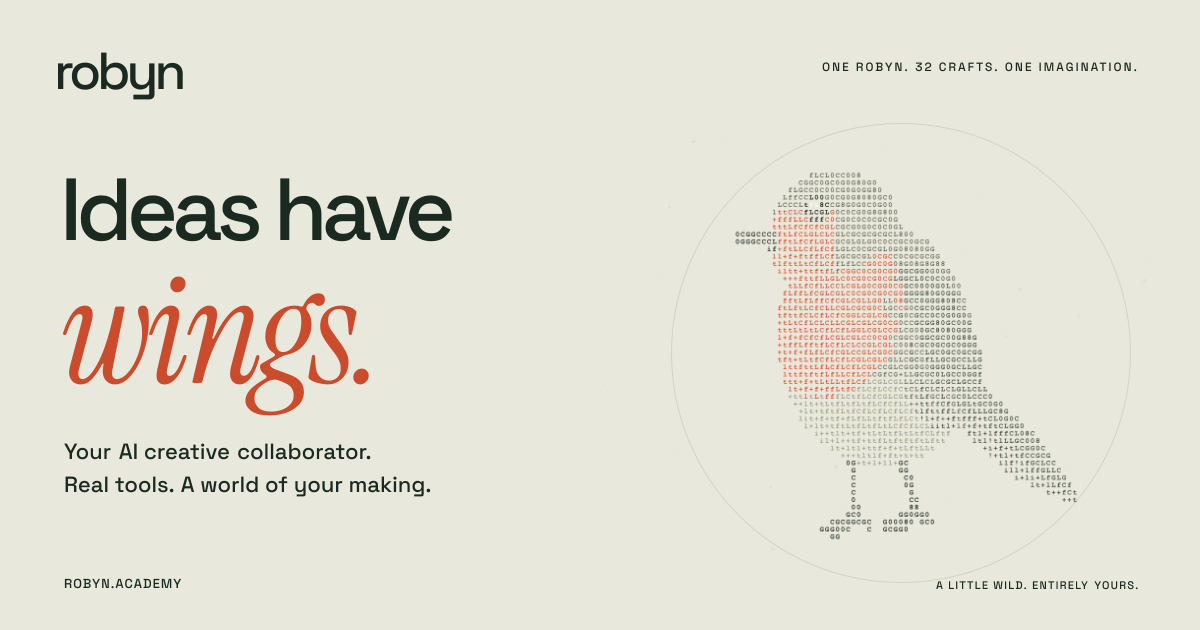
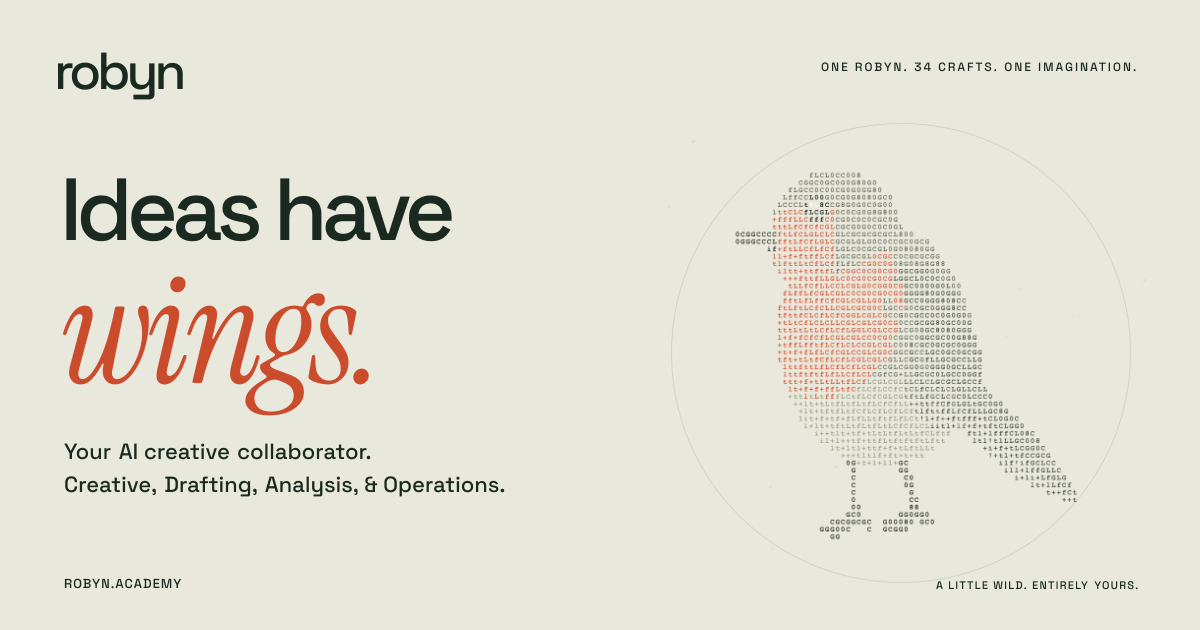
Group Operations Crafts and refresh the homepage

Changed region(s): [[0.0308, 0.754, 0.4317, 0.7841], [0.6783, 0.0905, 0.9558, 0.1206]]

diff --git a/src/components/home/FlightStory.tsx b/src/components/home/FlightStory.tsx
@@ -7,8 +7,15 @@ import { InvitationForm } from "./InvitationForm";
 import { craftTour, studioTour, registeredCraftCount, upcomingCrafts } from "./craft-tour";
 import { CraftArtwork } from "./CraftArtwork";
 import { AppIcon } from "@/components/studio/AppIcon";
+import { STUDIO_GROUPS } from "@/studio/manifest";
 
-const chapters = [{ id: "an-idea", label: "Meet Robyn" }, ...studioTour.map(app => ({ id: app.id, label: app.name })), { id: "invitation", label: "Your invitation" }];
+const introChapter = { id: "an-idea", label: "Meet Robyn", number: 0 };
+const craftChapters = studioTour.map((app, index) => ({ id: app.id, label: app.name, studio: app.studio, number: index + 1 }));
+const invitationChapter = { id: "invitation", label: "Your invitation", number: studioTour.length + 1 };
+const chapters = [introChapter, ...craftChapters, invitationChapter];
+const tourGroups = STUDIO_GROUPS.map(name => ({ name, chapters: craftChapters.filter(chapter => chapter.studio === name) }))
+  .filter(group => group.chapters.length > 0);
+const chapterOption = ({ id, label, number }: typeof introChapter) => <option key={id} value={id}>{String(number).padStart(2, "0")} / {label}</option>;
 
 export function FlightStory() {
   const storyRef = useRef<HTMLElement>(null);
@@ -59,25 +66,30 @@ export function FlightStory() {
       </div>
       <div className="bird-caption" aria-hidden="true"><span className="bird-caption-number">{String(Math.min(chapter, studioTour.length)).padStart(2, "0")}</span><div><span>{currentApp ? `ROBYN × ${currentApp.name}` : chapter === 0 ? "YOUR IMAGINATION. ONE CREATIVE COLLABORATOR." : "A LITTLE ROOM FOR YOUR NEXT BIG IDEA."}</span><small>{currentApp ? currentApp.tagline : "One Robyn. Real creative tools. Your direction."}</small></div></div>
       <div className="flight-controls">
-        <nav aria-label="Creative tools">{chapters.map((item, i) => <a key={item.id} href={`#${item.id}`} aria-label={`${String(i).padStart(2, "0")} ${item.label}`} aria-current={chapter === i ? "step" : undefined} title={item.label}><span>{i === chapters.length - 1 ? "↗" : String(i).padStart(2, "0")}</span></a>)}</nav>
+        <nav aria-label="Craft tour">{chapters.map((item, i) => <a key={item.id} href={`#${item.id}`} aria-label={`${String(i).padStart(2, "0")} ${item.label}`} aria-current={chapter === i ? "step" : undefined} title={item.label}><span>{i === chapters.length - 1 ? "↗" : String(i).padStart(2, "0")}</span></a>)}</nav>
         <label className="mobile-tour-select"><span>FOLLOW THE BIRD</span><select aria-label="Choose a studio chapter" value={chapters[chapter].id} onChange={event => {
           const target = document.getElementById(event.target.value);
           target?.scrollIntoView({ behavior: reduced ? "instant" : "smooth", block: "start" });
           window.history.replaceState(null, "", `#${event.target.value}`);
-        }}>{chapters.map((item, i) => <option key={item.id} value={item.id}>{String(i).padStart(2, "0")} / {item.label}</option>)}</select></label>
+        }}>{chapterOption(introChapter)}{tourGroups.map(group => <optgroup key={group.name} label={group.name}>{group.chapters.map(chapterOption)}</optgroup>)}{chapterOption(invitationChapter)}</select></label>
         <span className="tour-progress">{chapters[chapter].label}</span>
       </div>
     </div>
     <svg className="craft-ink-filter" width="0" height="0" aria-hidden="true"><defs><filter id="craft-paper-ink" colorInterpolationFilters="sRGB"><feColorMatrix type="saturate" values="0" /><feComponentTransfer><feFuncR type="linear" slope=".808" intercept=".106" /><feFuncG type="linear" slope=".745" intercept=".165" /><feFuncB type="linear" slope=".737" intercept=".125" /></feComponentTransfer></filter></defs></svg>
     <div className="flight-panels">
       <section className="flight-chapter chapter-idea" id="an-idea" aria-labelledby="idea-heading">
-        <div className="chapter-copy"><span className="flight-kicker">AN AI CREATIVE STUDIO WITH A MIND OF YOUR OWN.</span><h1 id="idea-heading">Ideas<br />have<br /><em>wings.</em><svg className="heading-star" viewBox="0 0 40 40" fill="none" stroke="currentColor" strokeWidth="2" aria-hidden="true"><path d="M20 0v40M0 20h40M6 6l28 28M6 34L34 6" /></svg></h1><p>One Robyn. {registeredCraftCount} Crafts.<br />{upcomingCrafts.length > 0 && <>{craftTour.length} ready. {upcomingCrafts.map(app => app.name).join(", ")} coming soon.<br /></>}Research with browser tools and Brave Search.<br />A world of your making.</p><a className="flight-link" href={`#${studioTour[0].id}`}>Follow the bird <ArrowDownRight size={21} /></a><a className="hero-invite" href="#invitation">Request an invite <ArrowUpRight size={14} /></a><span className="desktop-note"><Monitor size={14} aria-hidden="true" /> A desktop studio. Explore it anywhere.</span></div>
+        <div className="chapter-copy">
+          <span className="flight-kicker">AN AI CREATIVE STUDIO WITH A MIND OF YOUR OWN.</span><h1 id="idea-heading">Ideas<br />have<br /><em>wings.</em><svg className="heading-star" viewBox="0 0 40 40" fill="none" stroke="currentColor" strokeWidth="2" aria-hidden="true"><path d="M20 0v40M0 20h40M6 6l28 28M6 34L34 6" /></svg></h1>
+          <p>One Robyn. {registeredCraftCount} Crafts.<br />{upcomingCrafts.length > 0 && <>{craftTour.length} ready. {upcomingCrafts.map(app => app.name).join(", ")} coming soon.<br /></>}A world of your making.</p>
+          <nav className="craft-group-links" aria-label="Craft groups">{tourGroups.map(group => <a key={group.name} href={`#${group.chapters[0].id}`}>{group.name}</a>)}</nav>
+          <a className="flight-link" href={`#${studioTour[0].id}`}>Follow the bird <ArrowDownRight size={21} /></a><a className="hero-invite" href="#invitation">Request an invite <ArrowUpRight size={14} /></a><span className="desktop-note"><Monitor size={14} aria-hidden="true" /> A desktop studio. Explore it anywhere.</span>
+        </div>
         <span className="hero-marginal">ONE COLLABORATOR / EVERY CREATIVE TOOL</span>
       </section>
       {studioTour.map((app, i) => <section key={app.id} className="flight-chapter craft-chapter" id={app.id} aria-labelledby={`${app.id}-heading`}>
         <div className="chapter-copy">
           <span className="flight-kicker">
-            {String(i + 1).padStart(2, "0")} / ROBYN <span>× <AppIcon app={app} loading="lazy" />{app.name}</span>
+            {String(i + 1).padStart(2, "0")} / {app.studio?.toUpperCase()} <span><AppIcon app={app} loading="lazy" />{app.name}</span>
           </span>
           <h2 id={`${app.id}-heading`}>{app.story.lines.join(" ")}<br /><em>{app.story.accent}</em></h2>
           <p>{app.story.copy}</p>

diff --git a/src/app/home.css b/src/app/home.css
@@ -91,6 +91,8 @@ html:has(.craft-lightbox[open]) { overflow: hidden; }
 .flight-chapter h1 em,.flight-chapter h2 em { display: inline; font-size: 1.16em; letter-spacing: -.045em; line-height: .97; color: var(--rust); }
 .heading-star { display: inline-block; width: .34em; height: .34em; vertical-align: top; margin-top: .14em; margin-left: .18em; color: var(--rust); }
 .chapter-copy > p { font-size: clamp(14px,1.1vw,18px); line-height: 1.65; max-width: min(360px,95%); margin-top: 32px; letter-spacing: -.015em; }
+.craft-group-links { display: flex; flex-wrap: wrap; gap: 0 16px; margin-top: 10px; }
+.craft-group-links a { display: inline-flex; align-items: center; min-height: 32px; font: 11px/1.4 "Courier New",monospace; text-decoration: underline; text-underline-offset: 4px; }
 .flight-link { display: inline-flex; align-items: center; gap: 26px; border-bottom: 1px solid currentColor; padding: 12px 0 10px; margin-top: 18px; font-size: 13px; }
 .flight-link svg { transition: transform .25s; flex-shrink: 0; }
 .flight-link:hover svg { transform: translate(3px,3px); }
@@ -104,8 +106,8 @@ html:has(.craft-lightbox[open]) { overflow: hidden; }
 .craft-next { font-size: 11px; margin-top: 27px; }
 .flight-controls { position: absolute; z-index: 5; bottom: 0; left: 0; right: 0; display: flex; gap: 24px; align-items: center; padding: 19px 4.5vw 20px; min-height: 70px; color: var(--ink); background: var(--paper); pointer-events: auto; }
 .flight-controls::before { content: ""; position: absolute; top: 0; left: 4.5vw; right: 4.5vw; border-top: 1px solid #52614644; }
-.flight-controls nav { display: flex; gap: 3px; }
-.flight-controls nav a { display: grid; place-items: center; width: 30px; height: 30px; font: 10px "Courier New",monospace; color: #4d5a46; }
+.flight-controls nav { display: flex; gap: 3px; min-width: 0; }
+.flight-controls nav a { display: grid; place-items: center; width: 30px; min-width: 0; height: 30px; font: 10px "Courier New",monospace; color: #4d5a46; }
 .flight-controls nav a[aria-current] { color: var(--paper); background: var(--ink); border-radius: 50%; }
 .flight-controls nav a:hover:not([aria-current]) { background: #1b2a2010; border-radius: 50%; }
 .tour-progress { font: 11px "Courier New",monospace; }
@@ -186,6 +188,7 @@ html:has(.craft-lightbox[open]) { overflow: hidden; }
   .flight-chapter h1 { font-size: clamp(76px,18vw,120px); line-height: .85; }
   .flight-chapter.craft-chapter .chapter-copy > h2 { font-size: clamp(40px,10.5vw,72px); line-height: .98; }
   .chapter-copy > p,.craft-chapter .chapter-copy > p { font-size: 15px; line-height: 1.65; max-width: 540px; margin-top: 24px; }
+  .craft-group-links a { min-height: 44px; }
   .hero-marginal { display: none; }
   .flight-link,.craft-chapter .craft-next { min-height: 44px; font-size: 13px; padding: 12px 0; margin-top: 18px; }
   .hero-invite { min-height: 44px; font-size: 13px; margin-top: 8px; }

diff --git a/src/components/home/craft-tour.ts b/src/components/home/craft-tour.ts
@@ -31,6 +31,7 @@ const stories: Record<string, { lines: string[]; accent: string; copy: string; d
   plancraft: { lines: ["Give an idea"], accent: "a plan.", copy: "Connect tasks, people and milestones in PlanCraft. Explore the schedule with Robyn, then keep shaping the path from an idea to its next achievement.", details: ["PROJECT PLANNING", "GANTT CHARTS", "RESOURCES & MILESTONES"] },
   geocraft: { lines: ["Find the story"], accent: "in a place.", copy: "Explore maps, layers and spatial relationships with Robyn in GeoCraft. Keep the source data, attributes and native project ready for your next discovery.", details: ["MAPS & CARTOGRAPHY", "SPATIAL ANALYSIS", "EDITABLE GIS PROJECTS"] },
   ledgercraft: { lines: ["Keep your books"], accent: "in balance.", copy: "Work through invoices, bills and bank reconciliation with Robyn in LedgerCraft. Explore the financial reports, then keep the company file ready to review and continue.", details: ["BOOKKEEPING & INVOICES", "BANK RECONCILIATION", "EDITABLE COMPANY FILES"] },
+  mailcraft: { lines: ["Keep up with"], accent: "what comes in.", copy: "Read mail from a connected Gmail or Microsoft 365 account in MailCraft. Browse contacts and calendars where your connection allows, or work with a portable mailbox file in your project.", details: ["CONNECTED MAIL", "CONTACTS & CALENDAR", "PORTABLE MAILBOXES"] },
   scriptcraft: { lines: ["Write your"], accent: "next scene.", copy: "Draft a screenplay in ScriptCraft. Navigate scenes, revise dialogue and keep an editable Final Draft or Fountain file.", details: ["SCREENWRITING", "SCENES & DIALOGUE", "FINAL DRAFT & FOUNTAIN"] },
   flarecraft: { lines: ["Draw and animate"], accent: "on the stage.", copy: "Draw vector artwork in AniCraft, organize layers and symbols, and work with keyframes on the timeline.", details: ["2D ANIMATION", "VECTOR DRAWING", "LAYERS & TIMELINES"] },
   pcbcraft: { lines: ["Design a circuit"], accent: "from the schematic.", copy: "Place components, wire a schematic and develop the PCB layout in the same editable PCBCraft project.", details: ["CIRCUIT SCHEMATICS", "PCB LAYOUT", "PACKED PROJECTS"] },
@@ -53,7 +54,9 @@ const order = [
   // Analysis
   "wordcraft", "gridcraft", "deckcraft", "pdfcraft",
   "datacraft", "matcraft", "dashcraft", "geocraft",
-  "plancraft", "ledgercraft",
+
+  // Operations
+  "plancraft", "ledgercraft", "mailcraft",
 ];
 const studioPositions = new Map<StudioAppManifest["studio"], number>(STUDIO_GROUPS.map((studio, index) => [studio, index]));
 const craftPositions = new Map(order.map((id, index) => [id, index]));

diff --git a/src/components/studio/StudioEmployees.tsx b/src/components/studio/StudioEmployees.tsx
@@ -6,7 +6,7 @@ import {ArrowUpRight,FileText} from "lucide-react";
 import {apiFetch} from "@/lib/api";
 import {requireUuid,type AssetRef,type AssetSummary,type ProjectSummary} from "@/studio/assets";
 import {studioApps} from "@/studio/apps/registry";
-import {studioAppGroups} from "@/studio/studios";
+import {studioAppGroups,studioGroupList} from "@/studio/studios";
 import {isAppReady} from "@/studio/manifest";
 import {AppIcon} from "./AppIcon";
 import {AssignmentPanel} from "./AssignmentPanel";
@@ -79,7 +79,7 @@ function EmployeeProject({project,selection,view,clearInput}:{project:ProjectSum
 
 function SkillsDirectory() {
   return <section aria-label="Robyn’s studio tools">
-    <p className="studio-note">Explore {studioApps.length} applications across Creative, Drafting and Analysis. Robyn currently works with {studioApps.filter(isAppReady).length} ready Crafts, Chrome and Brave Search. Open a ready Craft from your project dashboard to keep editing the saved work yourself.</p>
+    <p className="studio-note">Explore {studioApps.length} applications across {studioGroupList}. Robyn currently works with {studioApps.filter(isAppReady).length} ready Crafts, Chrome and Brave Search. Open a ready Craft from your project dashboard to keep editing the saved work yourself.</p>
     {studioAppGroups.map(studio=><section className="studio-skill-group" key={studio.name} aria-label={`${studio.name} studio`}>
       <h2 className="application-studio-heading">{studio.name}<span>{studio.apps.length} Crafts</span></h2>
       <div className="studio-app-grid">{studio.apps.map(app=><article key={app.id} className="studio-app-card"><StudioStudy kind={app.artwork} index={app.order}/><div className="studio-craft-caption"><AppIcon app={app}/><small>{app.category}</small></div><h3 className="studio-craft-name">{app.name}</h3><p>{app.tagline}</p><span className="studio-status">{isAppReady(app)?"Ready to use":"Application being connected"}</span></article>)}</div>

diff --git a/src/config/branding.ts b/src/config/branding.ts
@@ -1,5 +1,6 @@
 import { studioApps } from "@/studio/apps/registry";
-import { isAppReady } from "@/studio/manifest";
+import { isAppReady, STUDIO_GROUPS } from "@/studio/manifest";
+import { studioGroupList } from "@/studio/studios";
 
 const upcomingCrafts = studioApps.filter(app => !isAppReady(app));
 const comingSoon = upcomingCrafts.length ? ` ${upcomingCrafts.map(app => app.name).join(", ")} coming soon.` : "";
@@ -12,7 +13,7 @@ export const branding = {
   logoUrl: "/brand/robin-icon.svg",
   siteUrl: "https://robyn.academy",
   title: "Robyn — Ideas have wings. | AI Creative Studio",
-  description: `Give your ideas wings with Robyn: ${studioApps.length} Crafts, browser tools and Brave Search in one desktop AI creative studio.${comingSoon}`,
-  socialImage: `/brand/robyn-social.png?v=${studioApps.length}-${studioApps.length - upcomingCrafts.length}`,
-  socialImageAlt: `Robyn — Ideas have wings. An orange-breasted ASCII robin on warm paper. One Robyn, ${studioApps.length} Crafts.${comingSoon}`,
+  description: `Robyn is a desktop AI creative studio with ${studioApps.length} Crafts across ${studioGroupList}, including PlanCraft, LedgerCraft, and MailCraft.${comingSoon}`,
+  socialImage: `/brand/robyn-social.png?v=${studioApps.length}-${studioApps.length - upcomingCrafts.length}-${STUDIO_GROUPS.length}`,
+  socialImageAlt: `Robyn — Ideas have wings. An orange-breasted ASCII robin on warm paper. One Robyn, ${studioApps.length} Crafts across ${studioGroupList}.${comingSoon}`,
 } as const;

diff --git a/src/components/home/CraftArtwork.tsx b/src/components/home/CraftArtwork.tsx
@@ -46,7 +46,7 @@ export function CraftArtwork({ appId, name, number, nearby, onInspect }: { appId
       {open && <div className="craft-lightbox-paper">
         <header><div><span className="flight-kicker">{String(number).padStart(2, "0")} / {name}</span><h2 id={`${appId}-preview-title`}>{artwork.title}</h2></div><button type="button" className="craft-lightbox-close" onClick={close} aria-label="Close interface preview" autoFocus><X size={22} /></button></header>
         <div className="craft-lightbox-art">{screen(true)}</div>
-        <footer><p id={`${appId}-preview-note`}>{`Actual ${name} editor · Example project`}</p><button type="button" className="craft-colour-toggle" aria-pressed={original} onClick={() => setOriginal(value => !value)}>{original ? "Paper & ink" : "Original colour"}<span aria-hidden="true"> ↗</span></button></footer>
+        <footer><p id={`${appId}-preview-note`}>{`Actual ${name} interface · ${artwork.example ?? "Example project"}`}</p><button type="button" className="craft-colour-toggle" aria-pressed={original} onClick={() => setOriginal(value => !value)}>{original ? "Paper & ink" : "Original colour"}<span aria-hidden="true"> ↗</span></button></footer>
       </div>}
     </dialog>
   </>;

diff --git a/src/components/home/craft-artwork.ts b/src/components/home/craft-artwork.ts
@@ -4,6 +4,7 @@ export interface CraftArtwork {
   alt: string;
   tools: string;
   fullFrame?: boolean;
+  example?: string;
 }
 
 // Actual editor screenshots from our own QA project. CSS crops the studio shell
@@ -36,6 +37,14 @@ export const craftArtwork: Record<string, CraftArtwork> = {
     "alt": "LedgerCraft's original accounting dashboard with sample company accounts, bank reconciliation, invoices, bills and financial reports.",
     "tools": "INVOICES / RECONCILIATION / FINANCIAL REPORTS",
     "fullFrame": true
+  },
+  "mailcraft": {
+    "src": "/artwork/editors/mailcraft.png",
+    "title": "Keep up with what comes in.",
+    "alt": "MailCraft's original interface showing a sample inbox, folder navigation and an open email about print proofs.",
+    "tools": "FOLDERS / INBOX / MESSAGE PREVIEW",
+    "fullFrame": true,
+    "example": "Sample inbox"
   },
   "research": {
     "src": "/artwork/editors/research.jpg",

diff --git a/src/studio/manifest.ts b/src/studio/manifest.ts
@@ -1,5 +1,7 @@
+import { STUDIO_GROUPS } from "./studio-groups.mjs";
+
 export type IntegrationStatus = "pending" | "verified";
-export const STUDIO_GROUPS = ["Creative", "Drafting", "Analysis"] as const;
+export { STUDIO_GROUPS };
 export type StudioGroup = typeof STUDIO_GROUPS[number];
 
 export interface StudioAppManifest {

diff --git a/src/studio/studios.ts b/src/studio/studios.ts
@@ -1,6 +1,8 @@
 import { studioApps } from "./apps/registry";
 import { STUDIO_GROUPS } from "./manifest";
 
+export const studioGroupList = new Intl.ListFormat("en").format(STUDIO_GROUPS);
+
 export const studioAppGroups = STUDIO_GROUPS.map(name => ({
   name,
   apps: studioApps.filter(app => app.studio === name),

diff --git a/docs/ARCHITECTURE.md b/docs/ARCHITECTURE.md
@@ -1,6 +1,6 @@
 # Robyn Creative Studio: architecture and scope
 
-Robyn is an invitation-only, passwordless studio for an individual creator. One visible Robyn uses Craft applications and browser/search tools on one shared workstation. The deployed catalog contains 29 verified Crafts grouped into Creative, Drafting and Analysis. LedgerCraft adds bookkeeping, invoices, reconciliation and financial reports in native `.lcdb` company files. Its paired production rollout verifies original browser saves, exact reload, installed native GUI continuation and confirmed library save through immutable client 0.12.1 on shared image 0.6.0. GeoCraft adds the original RustGIS interface, mapping, spatial analysis and confirmed native/library interoperability. Its paired production rollout verifies the owned workstation update, exact original-editor saves/reload and continuation through the installed native engine; its actual Studio MCP client connects to the production BFF without a model turn. PlanCraft retains its separately recorded real Robyn AI turn and committed library revision. The creator and Robyn continue work through private native files and exact saved revisions. [Current acceptance](CURRENT-STATUS.md) records source acceptance, deployed pins and remaining gaps; [operations](OPERATIONS.md) describes support and recovery.
+Robyn is an invitation-only, passwordless studio for an individual creator. One visible Robyn uses Craft applications and browser/search tools on one shared workstation. The source catalog contains 34 Crafts grouped into Creative, Drafting, Analysis and Operations. The creator and Robyn continue work through private native files and exact saved revisions. [Current acceptance](CURRENT-STATUS.md) records source acceptance, deployed pins and remaining gaps; the [operator runbook](OPERATIONS.md) describes support and recovery.
 
 ## Product and device boundaries
 
@@ -21,7 +21,7 @@ Studio navigation opens Projects. Every project uses the same menu and current-p
 
 New file stays with the editor's document controls. Navigation protects unsaved work. Project activity is hidden from Settings while stored history remains preserved. Old Applications links return to Dashboard. There is no employee picker or separate Researcher. Saved research notebooks remain editable as Notes; Notes is a document format, not another Craft.
 
-The source homepage is a continuous, scroll-driven ASCII robin tour with twenty-nine ready Craft stories, real interface captures, browser/search tools and an invitation form. Catalog counts include pending Crafts with an explicit coming-soon label; pending applications do not receive an editor tour or invented interface capture. Preserve the left-facing bird, paper/ink/rust identity, protected text and bird areas, ordinary scrolling, chapter navigation and system reduced motion. Captions stay outside the bird silhouette. The visible pause button was removed. Review public changes at desktop and mobile widths; speculative homepage performance work requires a concrete reported issue or new request. [Branding](BRANDING.md) and [capture provenance](HOMEPAGE-ARTWORK.md) own the visual details.
+The source homepage is a continuous, scroll-driven ASCII robin tour with ready Craft stories grouped by studio, real interface captures, browser/search tools and an invitation form. Catalog counts include pending Crafts with an explicit coming-soon label; pending applications do not receive an editor tour or invented interface capture. Preserve the left-facing bird, paper/ink/rust identity, protected text and bird areas, ordinary scrolling, chapter navigation and system reduced motion. Captions stay outside the bird silhouette. The visible pause button was removed. Review public changes at desktop and mobile widths; speculative homepage performance work requires a concrete reported issue or new request. [Branding](BRANDING.md) and [capture provenance](HOMEPAGE-ARTWORK.md) own the visual details.
 
 ## Deployment and application registry
 
@@ -33,7 +33,7 @@ The source homepage is a continuous, scroll-driven ASCII robin tour with twenty-
 | Companion `robyn-artcraft-runtime` repository | Native image, browser builds, explicit adapter/storage patches and workstation client |
 | Cloudflare R2 and read-only Worker | Immutable public editor distributions; no creator packages |
 
-Independent [Craft manifests](../src/studio/apps/) own identity, skill instructions, formats, capabilities, editor/native pins and readiness. Registry generation supplies discovery and routing. The catalog registers 29 accepted integrations, including LedgerCraft and GeoCraft based on RustGIS. Adding a Craft adds a tool and an on-demand skill to Robyn. It does not create another employee.
+Independent [Craft manifests](../src/studio/apps/) own identity, skill instructions, formats, capabilities, editor/native pins and readiness. Registry generation supplies discovery and routing. Adding a Craft adds a tool and an on-demand skill to Robyn. It does not create another employee.
 
 GridCraft, WordCraft and DeckCraft use pinned `sirmmo/craft-vba` 0.1.5 through their original Developer controls and document hosts. Macros begin disabled and require per-document consent. Source drafts are captured by the original File Save and keyboard shortcuts; browser saves become clean only after an immutable private-library revision is confirmed. Macro-enabled `.xlsm`, `.docm` and `.pptm` inputs preserve VBA for native continuation; DeckCraft also preserves it in `.deckcraft`. The interpreter supports its documented language and Office object subsets. COM, external DLLs, Shell, UserForms and automatic document events remain unsupported. Native images, browser compatibility patches and build pins live in the companion runtime. [Source acceptance](acceptance/office-vba-source-20261104.json) separates tested round trips from deployment.
 
@@ -41,11 +41,12 @@ The registry's `studio` and `order` fields define the launcher and Skills direct
 
 | Studio | Applications, in display order |
 | --- | --- |
-| Creative | DesignCraft, EffectCraft, LightCraft, FigCraft, PhotoCraft, SoundCraft, VectorCraft, FilmCraft, SubCraft, MaterialCraft |
-| Drafting | CADCraft, BimCraft, ModelCraft, MarkupCraft, TakeoffCraft, CivilCraft, DetailCraft, PartCraft, SolidCraft |
-| Analysis | GridCraft, DeckCraft, PdfCraft, WordCraft, DashCraft, MatCraft, DataCraft, PlanCraft, GeoCraft, LedgerCraft |
+| Creative | DesignCraft, EffectCraft, LightCraft, FigCraft, PhotoCraft, SoundCraft, VectorCraft, FilmCraft, SubCraft, MaterialCraft, ScriptCraft, AniCraft, PixelCraft |
+| Drafting | CADCraft, BimCraft, ModelCraft, MarkupCraft, TakeoffCraft, CivilCraft, DetailCraft, PartCraft, SolidCraft, PCBCraft |
+| Analysis | GridCraft, DeckCraft, PdfCraft, WordCraft, DashCraft, MatCraft, DataCraft, GeoCraft |
+| Operations | PlanCraft, LedgerCraft, MailCraft |
 
-Keep integrations independently versioned and visibly unavailable until verified. Native installation alone does not establish browser editing, a private-library save or permission to start paid work. All twenty-nine Crafts have accepted source integrations. LedgerCraft retains the original Svelte UI and Rust/SQLite accounting engine in an in-memory browser worker, without a local HTTP server. One `.lcdb` file contains the books, audit trail and attachment bodies. Existing record Save/Ctrl+S and company Save/Save as wait for an exact confirmed revision; conflicts and lost acknowledgements preserve the same snapshot without repeating a financial write. Installed native GUI continuation, task-confined accounting commands and financial report computation pass. Scheduled jobs and external delivery are unavailable in a file session; original payroll approximations are outside statutory-accuracy acceptance. GeoCraft retains the original RustGIS UI and native `.rgis` writer, precise attribute values, relative vector/raster dependencies and acknowledged Save/Save As. Its official Basemaps 0.1.2 plugin is included by default in native and browser builds, with public tiles loaded on demand. Native database/program providers, local tile archives and folder-backed Zarr stores remain native; browser opening refuses partial inputs. Its original MCP engine runs bounded task-confined commands and preserves the upstream plugin permission floor. PlanCraft retains the original project scheduler, Gantt interface and File actions, with exact relative linked projects and acknowledged Save/Save As. Its installed original MCP engine uses bounded task-confined tool scripts. The browser keeps private project bytes in memory and protects unsaved work; confirmed library revisions survive reloads. DataCraft retains the original application UI and SQLite driver for exact standalone databases, explicitly saved SQL companions, table/console editing and confirmed immutable saves. Its other database providers and server/filesystem tools remain native. SubCraft uses the genuine current painting UI and native writer, requires an available desktop WebGPU adapter, and runs its installed original GUI on task-isolated displays for native work. DashCraft is explicitly read-only: its original UI and Rust engines open exact private-library report/model/data inputs, compute and display results, and support filters, queries and separate native exports. Report authoring and library writes are unnecessary and are refused by the browser host and native client. Its launcher selects an existing report or imports native inputs without creating a blank report. New source acceptance and paired production rollout remain separate records. Pending applications cannot displace a ready application's native-format import routing. When several verified Crafts accept a file, the creator chooses before import starts; PDF intake offers MarkupCraft and PdfCraft. Published versions retain their exact bytes. Native builds and workstation sources belong in the companion repository; resource policy belongs on this server. Current resource defaults and maintenance procedures are in [operations](OPERATIONS.md#shared-workstation-ownership-and-task-recovery).
+Keep integrations independently versioned and visibly unavailable until verified. Native installation alone does not establish browser editing, a private-library save or permission to start paid work. MailCraft requires an active Gmail or Microsoft 365 connection. Its live views are read-only, and the project editor saves portable `.mailcraft` files through confirmed library revisions. LedgerCraft retains the original Svelte UI and Rust/SQLite accounting engine in an in-memory browser worker, without a local HTTP server. One `.lcdb` file contains the books, audit trail and attachment bodies. Existing record Save/Ctrl+S and company Save/Save as wait for an exact confirmed revision; conflicts and lost acknowledgements preserve the same snapshot without repeating a financial write. Installed native GUI continuation, task-confined accounting commands and financial report computation pass. Scheduled jobs and external delivery are unavailable in a file session; original payroll approximations are outside statutory-accuracy acceptance. GeoCraft retains the original RustGIS UI and native `.rgis` writer, precise attribute values, relative vector/raster dependencies and acknowledged Save/Save As. Its official Basemaps 0.1.2 plugin is included by default in native and browser builds, with public tiles loaded on demand. Native database/program providers, local tile archives and folder-backed Zarr stores remain native; browser opening refuses partial inputs. Its original MCP engine runs bounded task-confined commands and preserves the upstream plugin permission floor. PlanCraft retains the original project scheduler, Gantt interface and File actions, with exact relative linked projects and acknowledged Save/Save As. Its installed original MCP engine uses bounded task-confined tool scripts. The browser keeps private project bytes in memory and protects unsaved work; confirmed library revisions survive reloads. DataCraft retains the original application UI and SQLite driver for exact standalone databases, explicitly saved SQL companions, table/console editing and confirmed immutable saves. Its other database providers and server/filesystem tools remain native. SubCraft uses the genuine current painting UI and native writer, requires an available desktop WebGPU adapter, and runs its installed original GUI on task-isolated displays for native work. DashCraft is explicitly read-only: its original UI and Rust engines open exact private-library report/model/data inputs, compute and display results, and support filters, queries and separate native exports. Report authoring and library writes are unnecessary and are refused by the browser host and native client. Its launcher selects an existing report or imports native inputs without creating a blank report. New source acceptance and paired production rollout remain separate records. Pending applications cannot displace a ready application's native-format import routing. When several verified Crafts accept a file, the creator chooses before import starts; PDF intake offers MarkupCraft and PdfCraft. Published versions retain their exact bytes. Native builds and workstation sources belong in the companion repository; resource policy belongs on this server. Current resource defaults and maintenance procedures are in [operations](OPERATIONS.md#shared-workstation-ownership-and-task-recovery).
 
 ## Authorization and provider boundaries
 

diff --git a/docs/CURRENT-STATUS.md b/docs/CURRENT-STATUS.md
@@ -2,6 +2,8 @@
 
 Updated November 10, 2026 (Toronto). This page indexes recorded release evidence and remaining gaps. [Architecture and scope](ARCHITECTURE.md) describes the current system. [Operations](OPERATIONS.md) owns recovery procedures. Documentation maintenance does not imply a new deployment or a fresh live check. Earlier release summaries and the R01–R18 review are in the [archive](archive/README.md).
 
+The source catalog has **34 ready Crafts** across Creative (13), Drafting (10), Analysis (8) and Operations (3). Operations contains PlanCraft, LedgerCraft and MailCraft. The release records below document production rollout separately.
+
 The [November 10 studio naming release](acceptance/studio-naming-deployed-20261110.json) applied migration **0037** and deployed email-derived studio defaults and Agent37 label sync. All six live workstation labels matched their studios during verification. The earlier [production backfill](acceptance/studio-names-production-20261110.json) records the names updated before the web release.
 
 ## Connected mail, deployed November 10
@@ -32,7 +34,7 @@ Studio settings and project settings have a dedicated External MCP section with 
 
 ## LedgerCraft, deployed November 4
 
-The deployed catalog has **29 ready Crafts: Creative 10, Drafting 9 and Analysis 10**. LedgerCraft uses the original Svelte interface and Rust accounting/SQLite engine at commit `e2fe64dc9111d3effcc4b3d232927ec519092fa7`, with one native **`.lcdb`** company file containing its books, audit history and attachment bodies. The [paired production receipt](acceptance/ledgercraft-integration-deployed-20261104.json) pins web `88c351f07eb7cb18e3439b5d4dbad3cb7f6b8776`, runtime `b3cb5413843a82f2238a7714fb4b8e1cf9c63e0b`, browser **0.1.0**, shared image **0.6.0**, immutable client **0.12.1** and native blank **10**. Live original native creation, production invoice Ctrl+S, company settings/Save As, exact full reload, installed native GUI edit/Save, confirmed native library save and production browser reopen pass. Holding the real commit request keeps Save disabled and prevents the original success message until the immutable revision is confirmed. The invoice retains **95,700 minor units**, its Unicode reference, all existing accounting rows and its embedded attachment. The original native GUI adds its default Undeposited Funds account without changing existing rows.
+The November 4 rollout brought production to **29 ready Crafts**. LedgerCraft uses the original Svelte interface and Rust accounting/SQLite engine at commit `e2fe64dc9111d3effcc4b3d232927ec519092fa7`, with one native **`.lcdb`** company file containing its books, audit history and attachment bodies. The [paired production receipt](acceptance/ledgercraft-integration-deployed-20261104.json) pins web `88c351f07eb7cb18e3439b5d4dbad3cb7f6b8776`, runtime `b3cb5413843a82f2238a7714fb4b8e1cf9c63e0b`, browser **0.1.0**, shared image **0.6.0**, immutable client **0.12.1** and native blank **10**. Live original native creation, production invoice Ctrl+S, company settings/Save As, exact full reload, installed native GUI edit/Save, confirmed native library save and production browser reopen pass. Holding the real commit request keeps Save disabled and prevents the original success message until the immutable revision is confirmed. The invoice retains **95,700 minor units**, its Unicode reference, all existing accounting rows and its embedded attachment. The original native GUI adds its default Undeposited Funds account without changing existing rows.
 
 Live native packaging exposed rejection of the absolute working-copy path returned by `studio_open_asset`. Client **0.12.1** accepts that confined path while retaining relative package names, real-path checks and hot-journal refusal; the materialize/package regression and actual production save pass. Published **0.12.0** bytes remain intact. The [source acceptance record](acceptance/ledgercraft-integration-20261104.json) retains its original conflict, lost-acknowledgement, later-edit, blank-company and report-computation scope.
 
@@ -70,7 +72,7 @@ DiagramCraft was explicitly deferred by the owner on November 3 because the link
 
 ## Recorded release boundary
 
-The invitation-only, passwordless pilot has one visible Robyn and one shared workstation per creator, with 29 installed Crafts and 29 deployed browser/library integrations, Chrome and Brave Search. The seven new Drafting integrations have [source, hosted and native evidence](acceptance/drafting-integrations-20261031.json) and a [verified paired production rollout](acceptance/drafting-integrations-deployed-20261031.json). The [SubCraft paired production release](acceptance/subcraft-integration-deployed-20261101.json) verifies the twenty-fourth integration, including an immediate Save As reload with project refresh deliberately held. The [DashCraft paired production release](acceptance/dashcraft-integration-deployed-20261101.json) verifies the twenty-fifth integration under its read-only scope, including exact report selection, real refresh/DAX/filtering and full reload with zero viewer writes. The [DataCraft paired production release](acceptance/datacraft-integration-deployed-20261101.json) completes the twenty-sixth integration, including native blank/import editing, confirmed database/SQL saves, exact full reload and two installed-native continuations. The [PlanCraft paired production release](acceptance/plancraft-integration-deployed-20261103.json) adds the twenty-seventh integration and real model-driven MCP/library-save acceptance. The [GeoCraft paired release](acceptance/geocraft-integration-deployed-20261103.json) adds the twenty-eighth integration, verified owned image/client update, original production saves/reload and native continuation. The [LedgerCraft paired release](acceptance/ledgercraft-integration-deployed-20261104.json) adds the twenty-ninth integration, shared image 0.6.0, client 0.12.1 and the live native/browser/save/native continuation. Saved notebooks remain Notes. The authenticated studio is desktop-only; the public homepage supports mobile presentation. Public signup and subscription billing remain disabled.
+The November 4 production baseline recorded 29 installed Crafts and 29 browser/library integrations, plus Chrome and Brave Search. The seven new Drafting integrations have [source, hosted and native evidence](acceptance/drafting-integrations-20261031.json) and a [verified paired production rollout](acceptance/drafting-integrations-deployed-20261031.json). The [SubCraft paired production release](acceptance/subcraft-integration-deployed-20261101.json) verifies the twenty-fourth integration, including an immediate Save As reload with project refresh deliberately held. The [DashCraft paired production release](acceptance/dashcraft-integration-deployed-20261101.json) verifies the twenty-fifth integration under its read-only scope, including exact report selection, real refresh/DAX/filtering and full reload with zero viewer writes. The [DataCraft paired production release](acceptance/datacraft-integration-deployed-20261101.json) completes the twenty-sixth integration, including native blank/import editing, confirmed database/SQL saves, exact full reload and two installed-native continuations. The [PlanCraft paired production release](acceptance/plancraft-integration-deployed-20261103.json) adds the twenty-seventh integration and real model-driven MCP/library-save acceptance. The [GeoCraft paired release](acceptance/geocraft-integration-deployed-20261103.json) adds the twenty-eighth integration, verified owned image/client update, original production saves/reload and native continuation. The [LedgerCraft paired release](acceptance/ledgercraft-integration-deployed-20261104.json) adds the twenty-ninth integration, shared image 0.6.0, client 0.12.1 and the live native/browser/save/native continuation. Saved notebooks remain Notes. The authenticated studio is desktop-only; the public homepage supports mobile presentation. Public signup and subscription billing remain disabled.
 
 | Boundary | Recorded state and evidence |
 | --- | --- |
@@ -135,7 +137,7 @@ The original review marked R01, R02, R03, R04, R05, R07, R08, R10, R11, R12, R14
 | --- | --- |
 | External MCP | [Production deployment and HTTPS checks](acceptance/external-mcp-deployed-20261105.json) verify the OAuth discovery endpoints, access challenge and checked migrations. Local OAuth, exact-library and zero-allowance tests pass. The pinned PhotoCraft CLI edited and reopened a native working copy under gVisor, with an isolated fixture confirming save and replay behavior. Hosted ChatGPT sign-in, direct control and job refusal at zero allowance, command discovery across all Crafts, and a private-library round trip await [hosted acceptance](MCP.md#deploy-and-verify). |
 | Office VBA — deployed | GridCraft, WordCraft and DeckCraft use pinned craft-vba **0.1.5** through original Developer controls and confirmed library saves in browser **0.4.1** and native image **0.5.2**, client **0.11.0**. [Production acceptance](acceptance/office-vba-deployed-20261104.json) includes actual MCP saves, browser source edits and exact native continuation. The [initial assessment](acceptance/office-vba-compatibility-20261104.json) retains its pre-approval scope. |
-| New Craft integrations | LedgerCraft source/browser/native acceptance is complete; its production web/workstation rollout remains pending. GeoCraft production image/client, original-editor library saves/reload, actual MCP/BFF connection and native continuation are complete. A model-driven GeoCraft job was not run; PlanCraft retains its separately recorded AI acceptance. DiagramCraft remains owner-deferred until an interface is available. SubCraft retains its desktop WebGPU requirement |
+| New Craft integrations | GeoCraft has paired production acceptance; a model-driven GeoCraft job was not run. PlanCraft retains its separately recorded AI acceptance. DiagramCraft remains owner-deferred until an interface is available. SubCraft retains its desktop WebGPU requirement |
 | R06 — capacity recovery, partial | Recover an already-purchased result after a real space failure. Controlled reservation refusal/recovery does not complete that case |
 | R09 — workstation recovery, partial | Broader self-service recovery, lost persistent state and active/unsettled external work. Accepted idle replacement, image update and retirement do not complete those cases |
 | R13 — provider promotion, partial | Gemini image, image edit and sound effects remain disabled; their prepared **$0.13** acceptance batch still awaits approval. Additional options require bounded acquisition, final cost, provenance/rights and editable-file acceptance. Generated music is not implemented; video reference inputs are rejected |

diff --git a/docs/HOMEPAGE-ARTWORK.md b/docs/HOMEPAGE-ARTWORK.md
@@ -1,5 +1,7 @@
 # Homepage product captures
 
[1 lines of base64/hex data omitted]
+
 PixelCraft uses a 1600 × 1000 capture of its published OxyPixel editor after a pixel edit, confirmed private-library Save and exact reopen. The synthetic sprite, pixel grid, two layers and two animation frames use the original editor and native engine. [Hosted canary](acceptance/pixelcraft-hosted-20261109.json)
 
 ScriptCraft, AniCraft and PCBCraft use 1600 × 1000 captures of their published editors after confirmed private-library saves and exact reopen. AniCraft uses the Flare editor. The screenshots show a screenplay, a vector drawing on the stage and an indicator schematic from synthetic canary projects. [Hosted canary](acceptance/creative-crafts-hosted-20261109.json)
@@ -24,7 +26,7 @@ Seven Drafting captures add the actual BimCraft, ModelCraft, MarkupCraft, Takeof
 
 The SolidCraft addition uses an actual 1600 × 1000 capture of the v0.27.0 browser editor after its real private-library Save, Save As, Copy and native-continuation checks, before the separate saved-STEP placement check. Its parametric block, ribbon, model browser and feature history are genuine editor output. `public/artwork/editors/solidcraft.png` keeps the full editor frame; the homepage's existing paper/ink treatment and original-colour preview still apply. The sanitized source and format44 acceptance is in `docs/acceptance/solidcraft-027-local-bff-20261029.json`; raw screenshots remain outside version control. The chapter is available when its manifest is verified. The older captures and their acceptance below retain their original scope.
 
-The source homepage uses **actual product UI screenshots** from all thirty-three Crafts, including PixelCraft, ScriptCraft, AniCraft, PCBCraft, the original thirteen, SolidCraft, the seven Drafting captures, MatCraft, MaterialCraft, SubCraft, DashCraft, DataCraft, PlanCraft, GeoCraft and LedgerCraft. The full-size, mirrored ASCII robin keeps the right column on desktop. On mobile, the bird has its own space above the copy. The asset provenance for the earlier illustrative OFFSCRIPT composition remains in [ARTWORK.md](ARTWORK.md).
+The source homepage uses **actual product UI screenshots** for all 34 Crafts. Its group links and mobile chapter menu include Operations, with PlanCraft, LedgerCraft and MailCraft together. The full-size, mirrored ASCII robin keeps the right column on desktop. On mobile, the bird has its own space above the copy. The asset provenance for the earlier illustrative OFFSCRIPT composition remains in [ARTWORK.md](ARTWORK.md).
 
 The historical Research image is the real notebook produced by the live Chrome/Brave assignment `cfd83ce6-10cc-40bb-a8be-ec2d6e48e2b8`, continued through exact-revision assignment `bd5905f9-f707-492b-8a0a-aacc84e8519b` and captured at 1440 × 1000 in `artifacts/qa/research/notebook-current-desktop.jpg`. The unchanged copy at `public/artwork/editors/research.jpg` uses the same crop and paper/ink treatment. It contains verified source links and editable field notes. This provenance does not imply a separate Researcher in the current architecture; browsing/search belong to Robyn and saved notebooks remain Notes.
 
